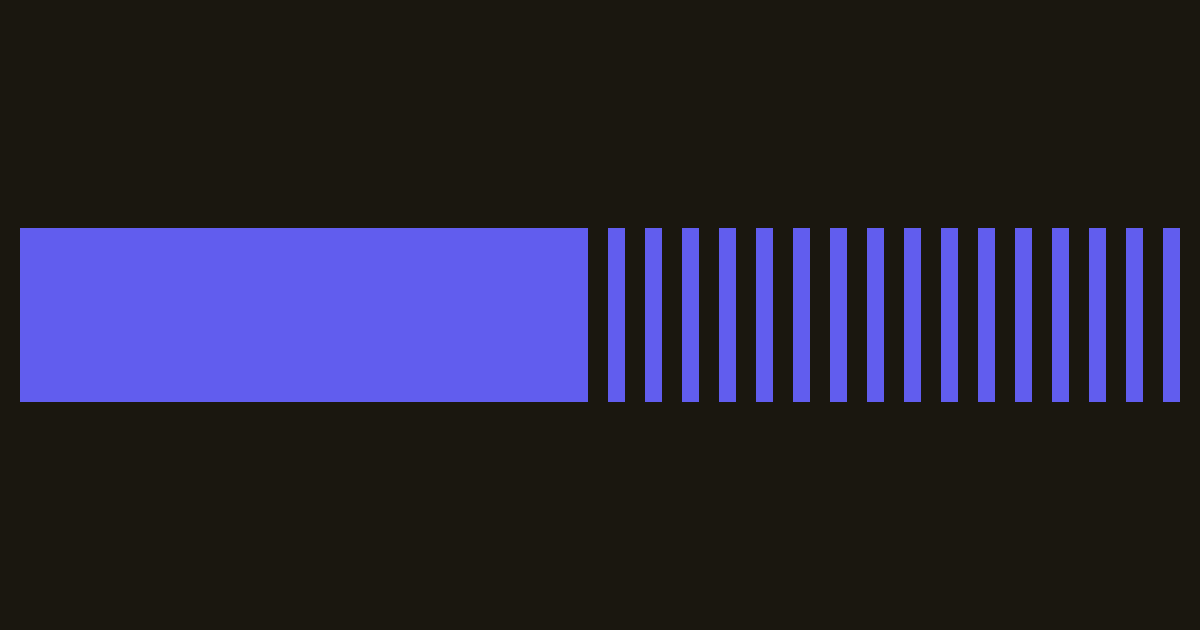
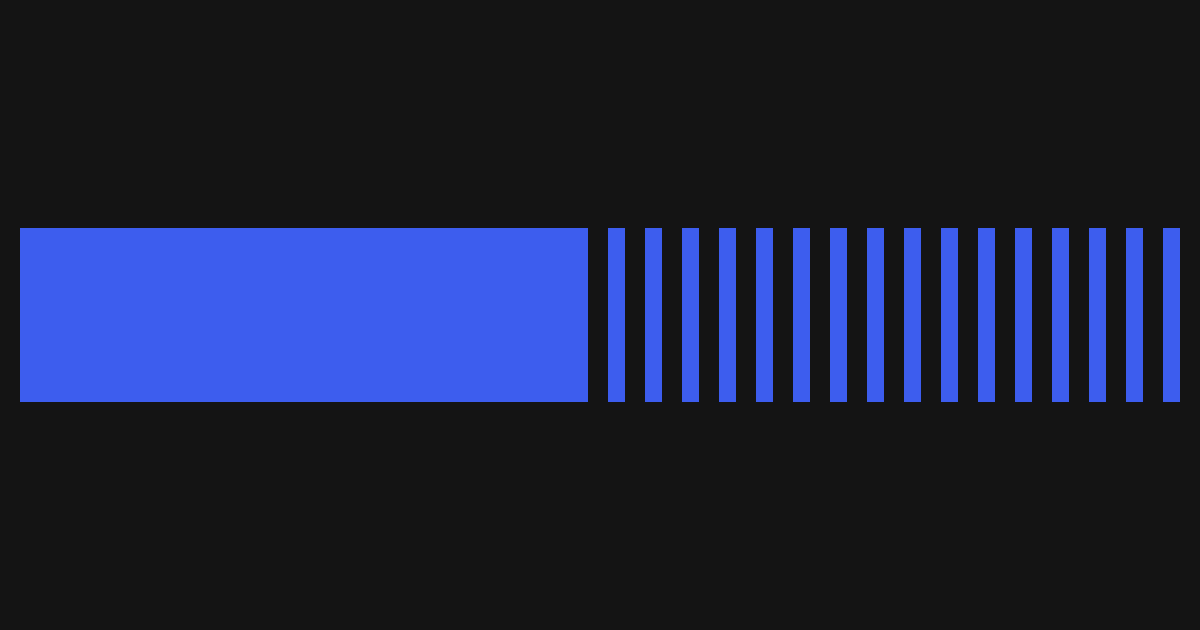
Change background from brown to black

Changed region(s): [[0.0, 0.3619, 0.9867, 0.6635]]

diff --git a/static/terminal.css b/static/terminal.css
@@ -1,5 +1,5 @@
 :root {
-  --background: #1a170f;
+  --background: #141414;
   --foreground: #eceae5;
   --accent: #615dee;
 }
